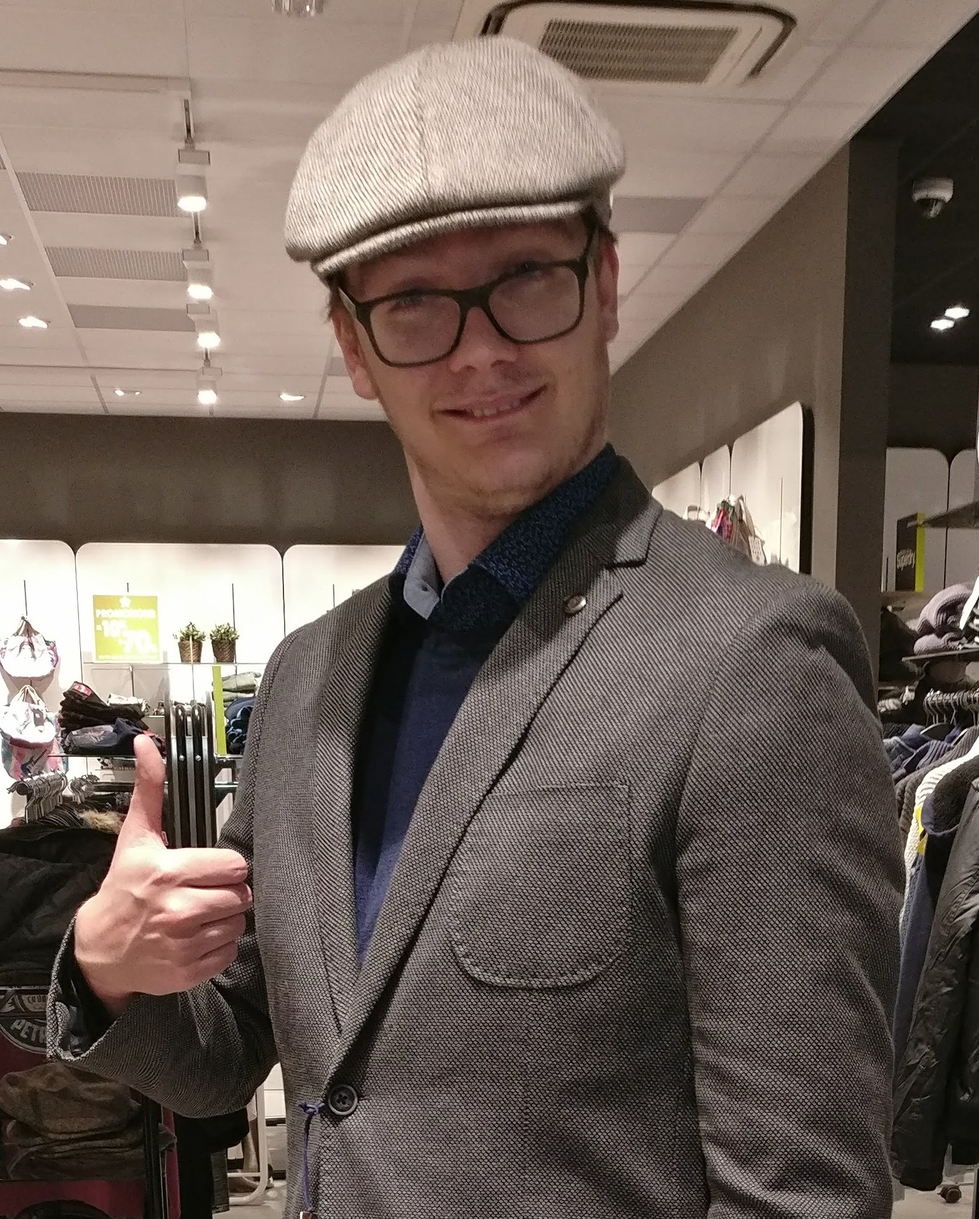
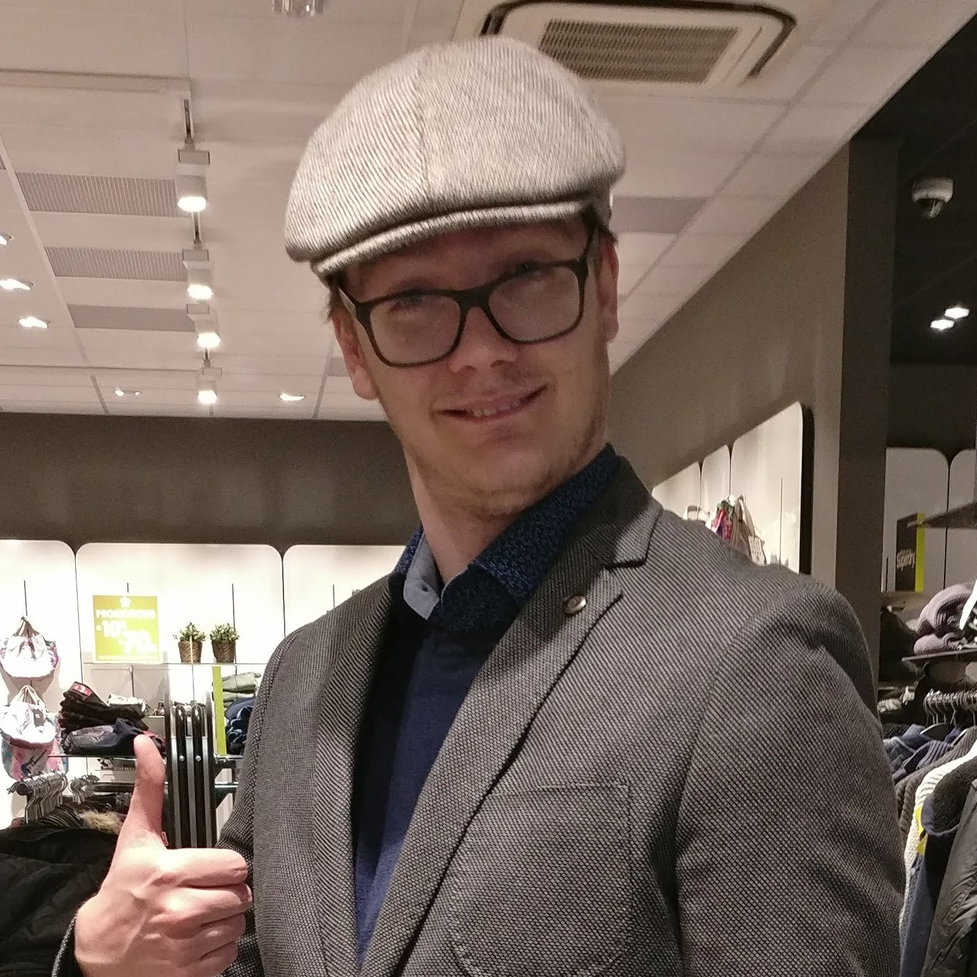
Img crop, CSS and HTML updates

diff --git a/mystyle.css b/mystyle.css
@@ -1,4 +1,23 @@
 body {
     font-family: 'Montserrat', sans-serif;
-    align-content: center;
+    text-align: center;
+}
+
+#bgimage {
+    background-image: url(images/bg-drone1.jpg);
+    max-height: 500px;
+    height: 500px;
+    background-attachment: fixed;
+    background-position: center;
+    background-repeat: no-repeat;
+    background-size: cover;
+    padding: 10px 0;
+    padding-top: 200px;
+    
+}
+
+#bgimage img {
+    border-radius: 50%;
+    width: 200px;
+    height: 200px;
 }

diff --git a/index.html b/index.html
@@ -36,8 +36,8 @@
                 <h2>Basic informations</h2>
                 <table>
                     <tr>
-                        <td><strong>Age</strong></td>
-                        <td>24</td>
+                        <td><strong>Birthday</strong></td>
+                        <td>12/09/1995</td>
                     </tr>
                     <tr>
                         <td><strong>Email</strong></td>
